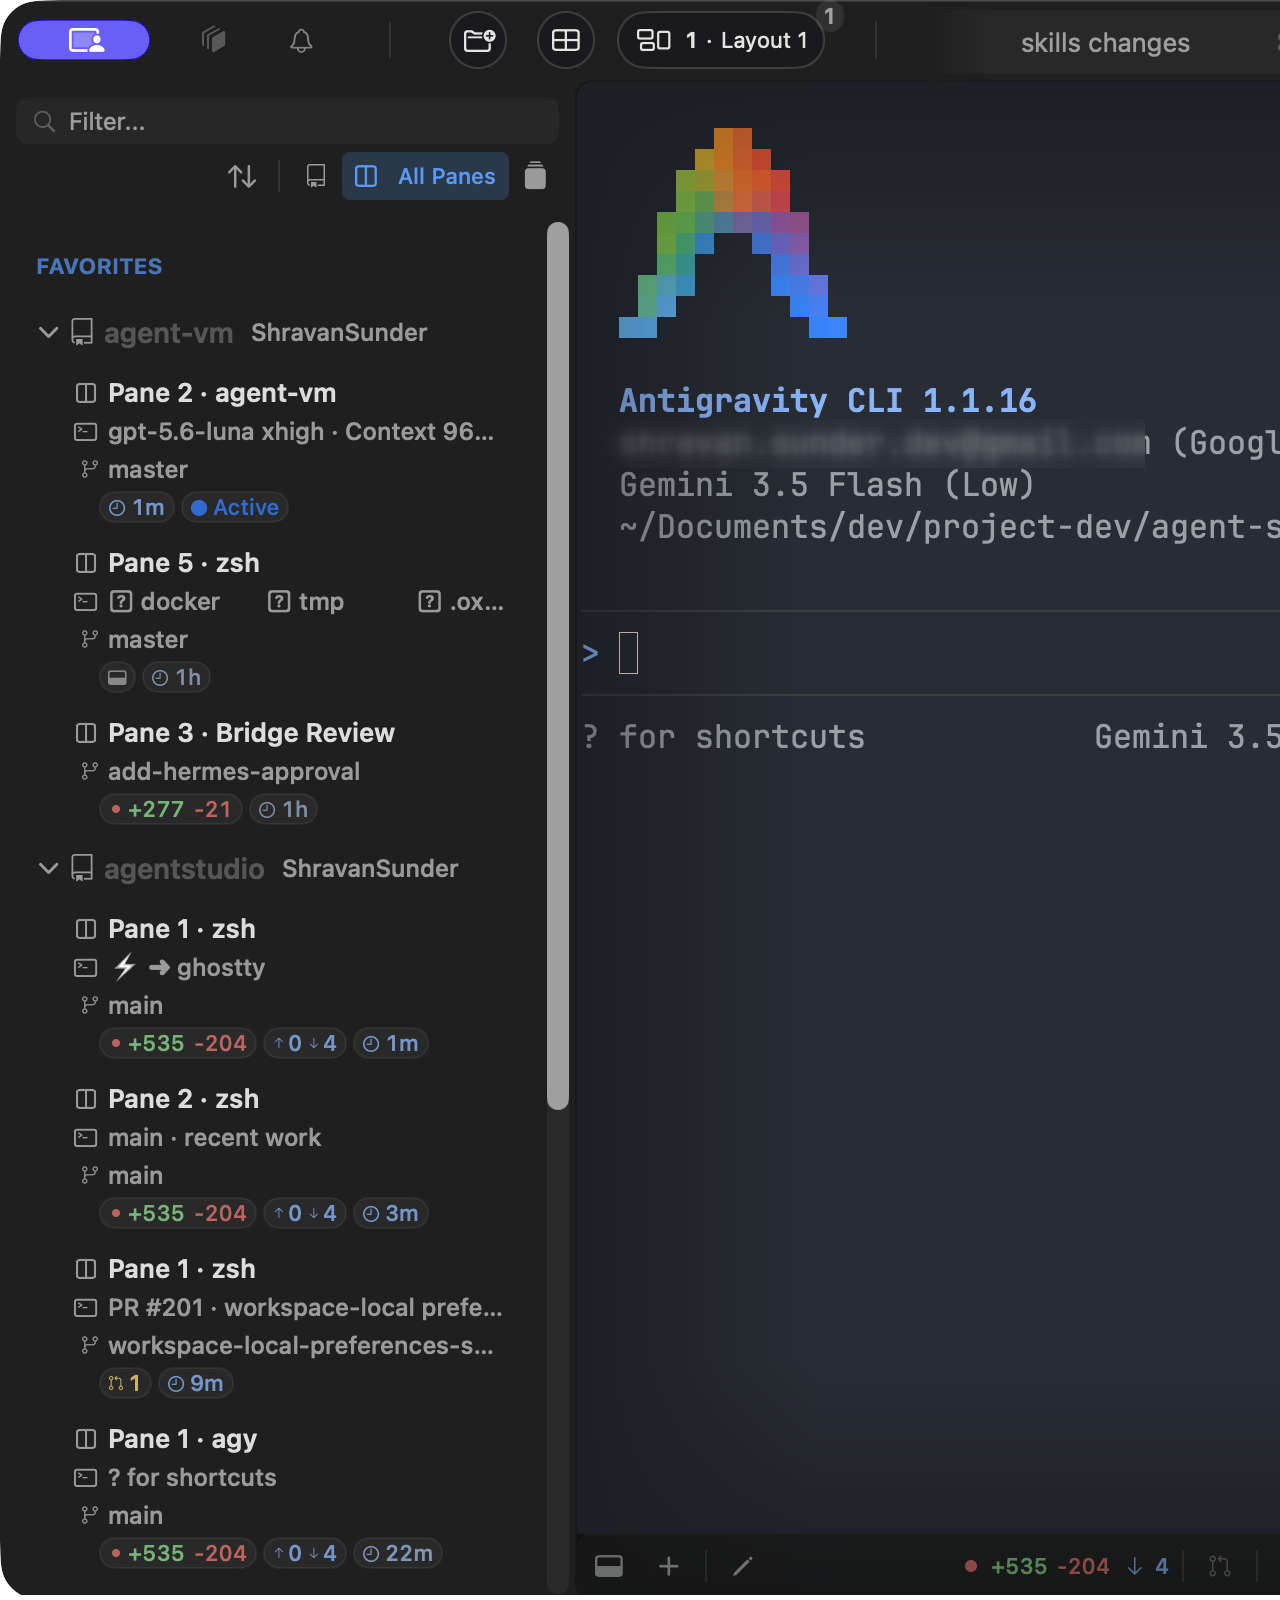
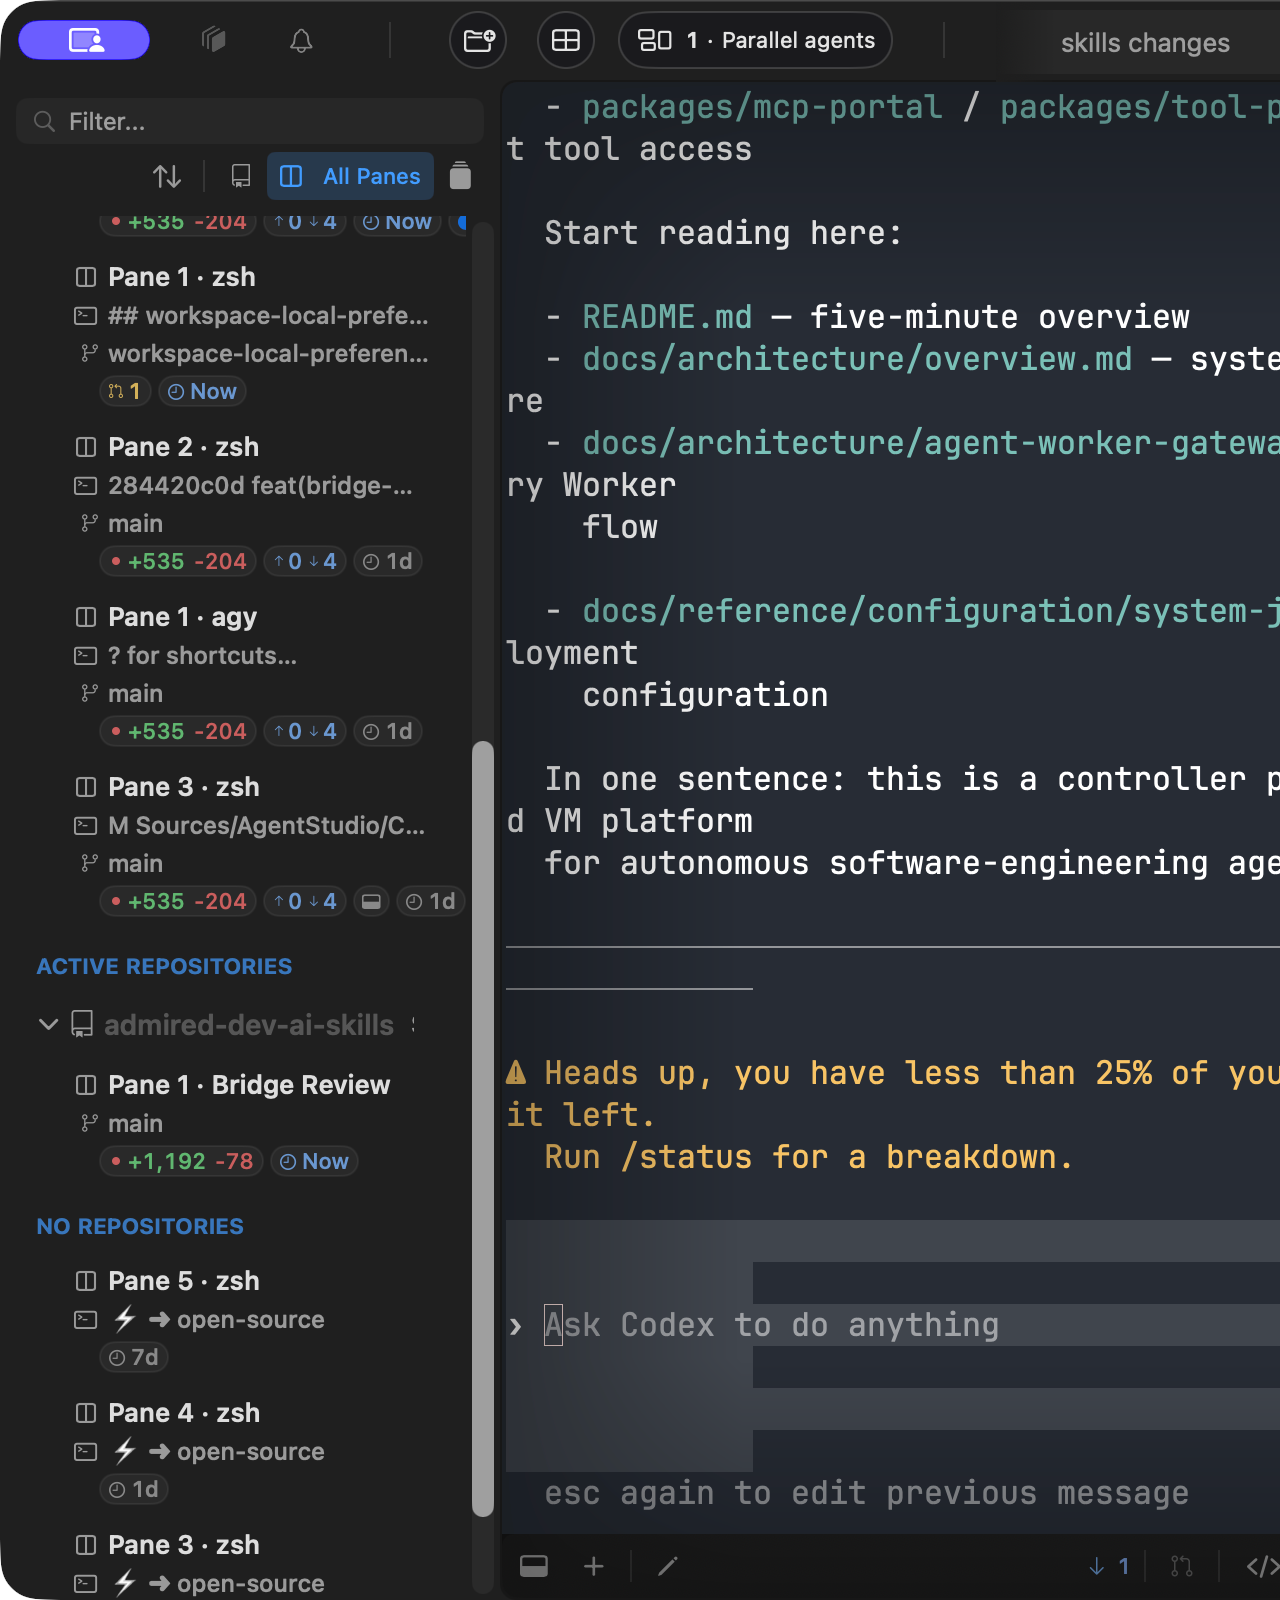
fix(web): recapture parallel agents natively

diff --git a/web/src/content/website-capture-manifest.ts b/web/src/content/website-capture-manifest.ts
@@ -81,15 +81,15 @@ export const websiteCaptureSuite = {
         "Agent Studio All Panes showing active Codex and Claude Code sessions with repository, worktree, branch, and activity context.",
       source: {
         productRevision: "0.0.90-beta.30 (151)",
-        fixtureIdentity: "owner-prepared-beta-workspace-2026-08-20",
+        fixtureIdentity: "owner-prepared-beta-workspace-2026-08-21",
         bundleIdentifier: "com.agentstudio.app.beta",
[1 lines of base64/hex data omitted]
       },
-      processGeneration: "A",
[4 lines of base64/hex data omitted]
+      processGeneration: "B",
[4 lines of base64/hex data omitted]
       focusRegion: null,
       focusRadiusPixels: null,
       focusRail: false,
